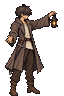
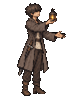
feat: [S-LOOK-PRINCIPLE] セインの体勢・心気の振りを GIF から取り込む（体勢は溜め1段・中割り3コマ、心気は溜め2段・中割り2コマ）。振り抜きを GIF の最後のコマで置き換え、体勢は据えて踏ん張る姿にする

diff --git a/src/ui/assets/art-manifest.ts b/src/ui/assets/art-manifest.ts
@@ -52,10 +52,18 @@ export const ART_FILES: readonly string[] = [
   "art/standing/hero-martial-swing-1.png",
   "art/standing/hero-martial-swing-2.png",
   "art/standing/hero-martial.png",
+  "art/standing/hero-mind-charge-1.png",
+  "art/standing/hero-mind-charge-2.png",
   "art/standing/hero-mind-follow.png",
+  "art/standing/hero-mind-swing-1.png",
+  "art/standing/hero-mind-swing-2.png",
   "art/standing/hero-mind.png",
   "art/standing/hero-stagger.png",
+  "art/standing/hero-stance-charge-1.png",
   "art/standing/hero-stance-follow.png",
+  "art/standing/hero-stance-swing-1.png",
+  "art/standing/hero-stance-swing-2.png",
+  "art/standing/hero-stance-swing-3.png",
   "art/standing/hero-stance.png",
   "art/standing/hero.png",
   "art/standing/ish.png",
@@ -92,10 +100,18 @@ export const STANDING_HEIGHTS: Readonly<Record<string, number>> = {
   "art/standing/hero-martial-swing-1.png": 96,
   "art/standing/hero-martial-swing-2.png": 96,
   "art/standing/hero-martial.png": 96,
+  "art/standing/hero-mind-charge-1.png": 96,
+  "art/standing/hero-mind-charge-2.png": 96,
   "art/standing/hero-mind-follow.png": 96,
+  "art/standing/hero-mind-swing-1.png": 96,
+  "art/standing/hero-mind-swing-2.png": 96,
   "art/standing/hero-mind.png": 96,
   "art/standing/hero-stagger.png": 96,
+  "art/standing/hero-stance-charge-1.png": 96,
   "art/standing/hero-stance-follow.png": 96,
+  "art/standing/hero-stance-swing-1.png": 96,
+  "art/standing/hero-stance-swing-2.png": 96,
+  "art/standing/hero-stance-swing-3.png": 96,
   "art/standing/hero-stance.png": 96,
   "art/standing/hero.png": 96,
   "art/standing/ish.png": 96,

diff --git a/tools/genmaster/authoring/assets.js b/tools/genmaster/authoring/assets.js
@@ -101,7 +101,11 @@ const POSE_PHASES = [
 const POSED_OWNER_KINDS = ['HERO', 'ENEMY', 'CREATURE'];
 // 溜め（CHARGE）と中割り（SWING）を持つ構えの画と、溜めの段の数・中割りのコマの数。どちらも任意であり、ここに挙げた構えだけが持つ。
 // asset_id・variant・path は構えの画に _CHARGE_<段>・_SWING_<順> を添える（art/import.js が取り込み元の GIF から作る）。
-const MOTIONS = { ASSET_HERO_STANDING_MARTIAL: { charge: 2, swing: 2 } };
+const MOTIONS = {
+  ASSET_HERO_STANDING_MARTIAL: { charge: 2, swing: 2 },
+  ASSET_HERO_STANDING_STANCE: { charge: 1, swing: 3 },
+  ASSET_HERO_STANDING_MIND: { charge: 2, swing: 2 },
+};
 
 function poseRecord(base, pose, phase, name) {
   return {
